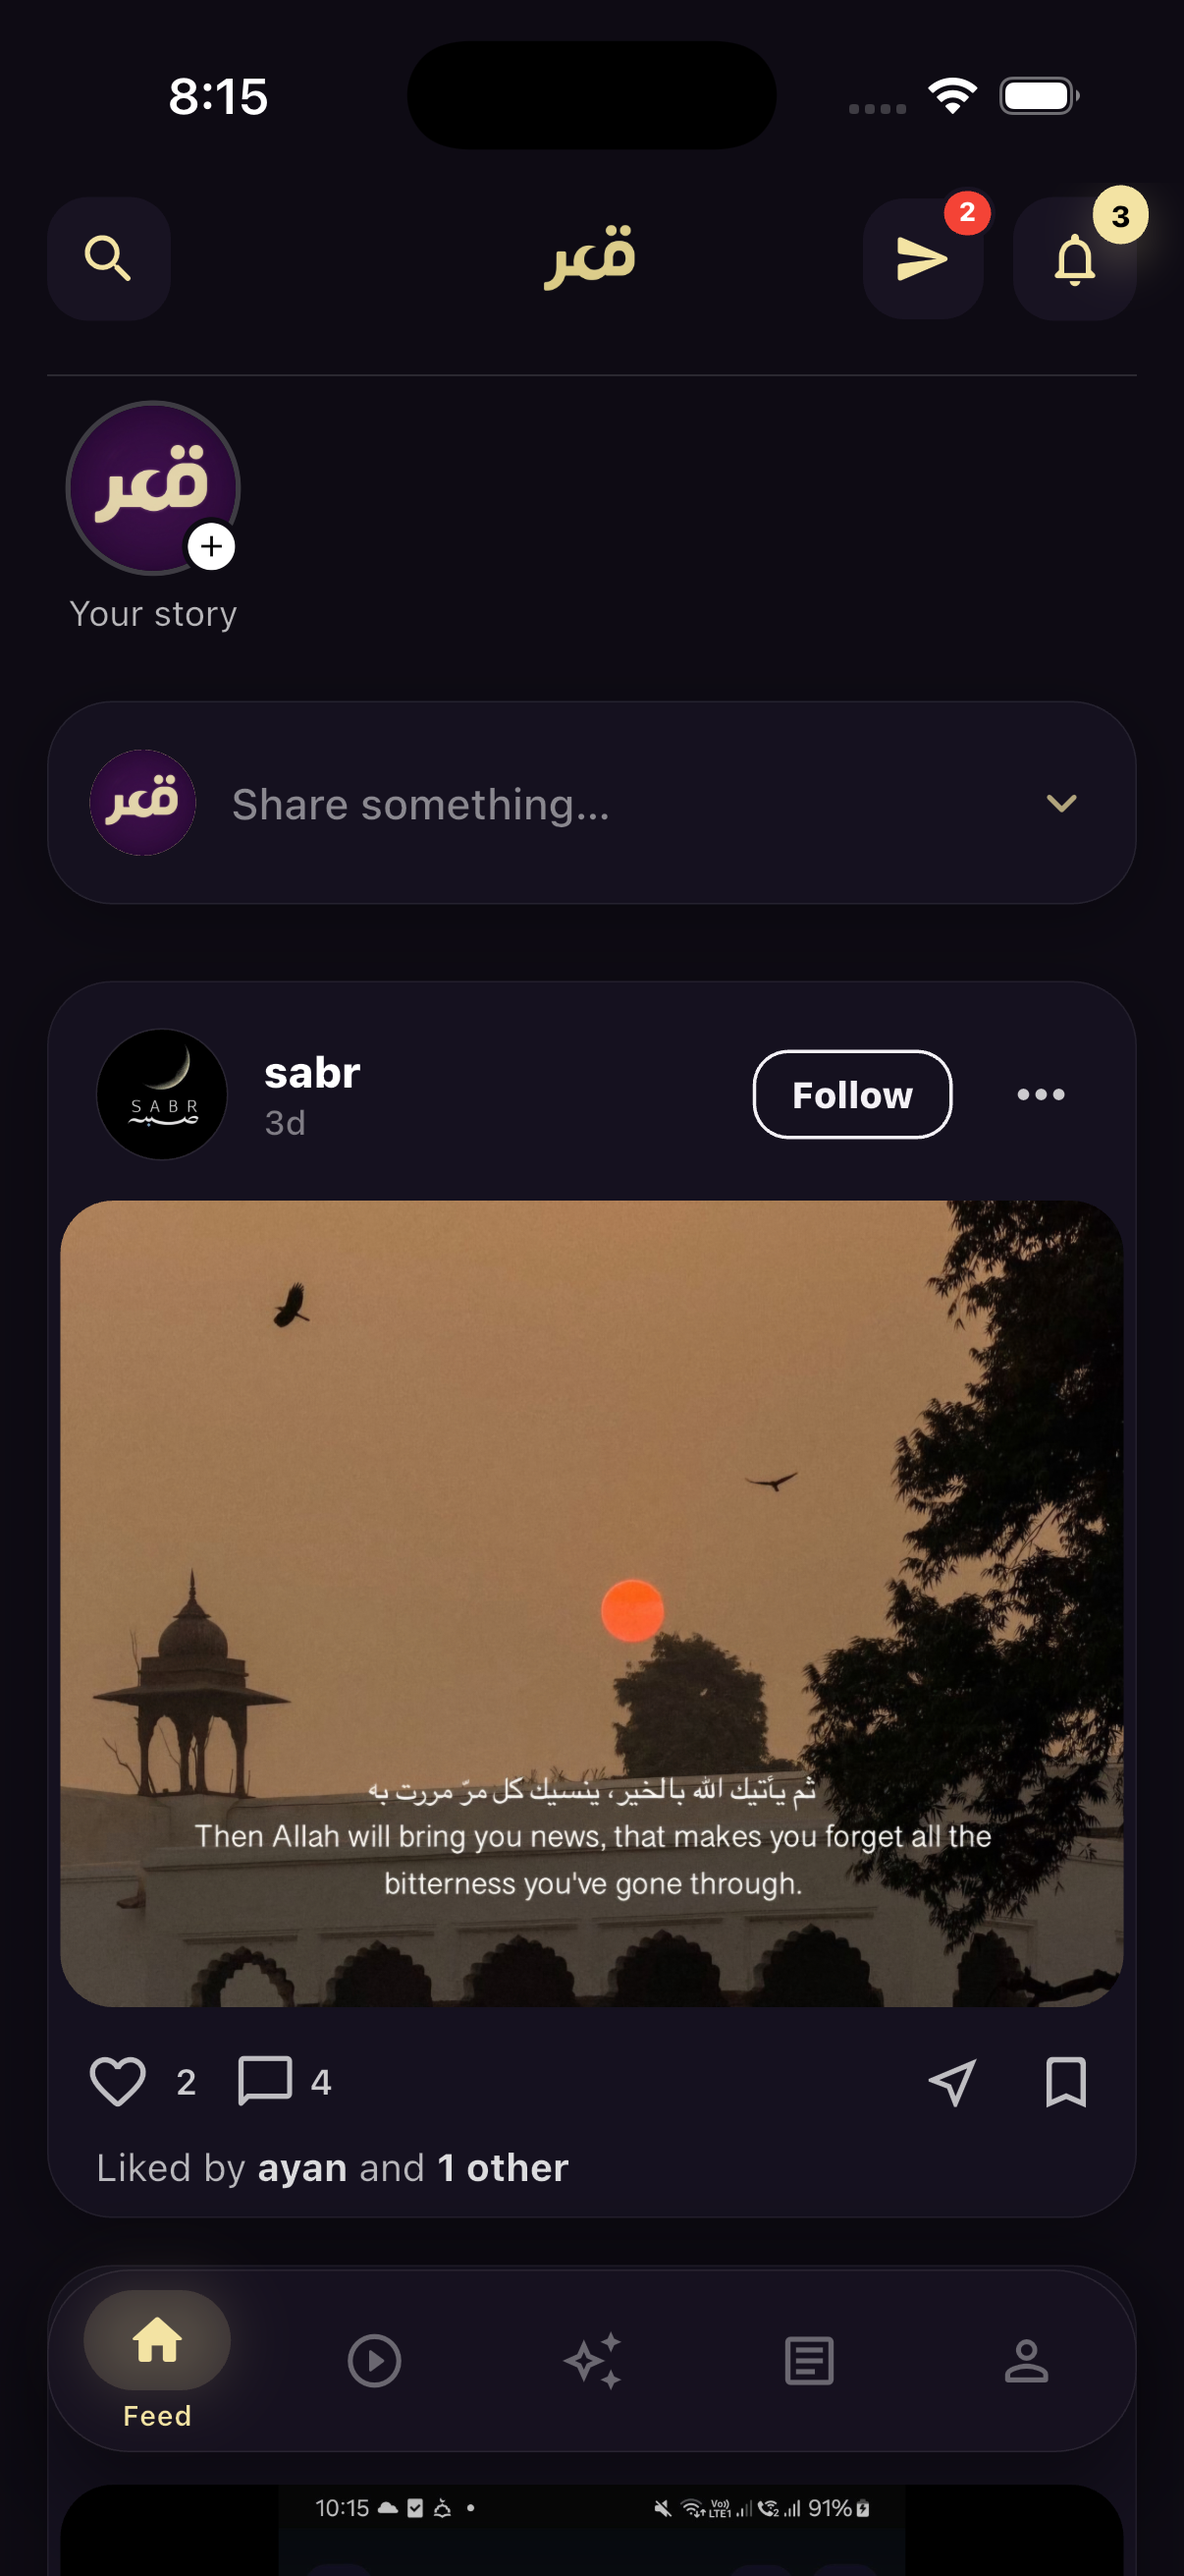
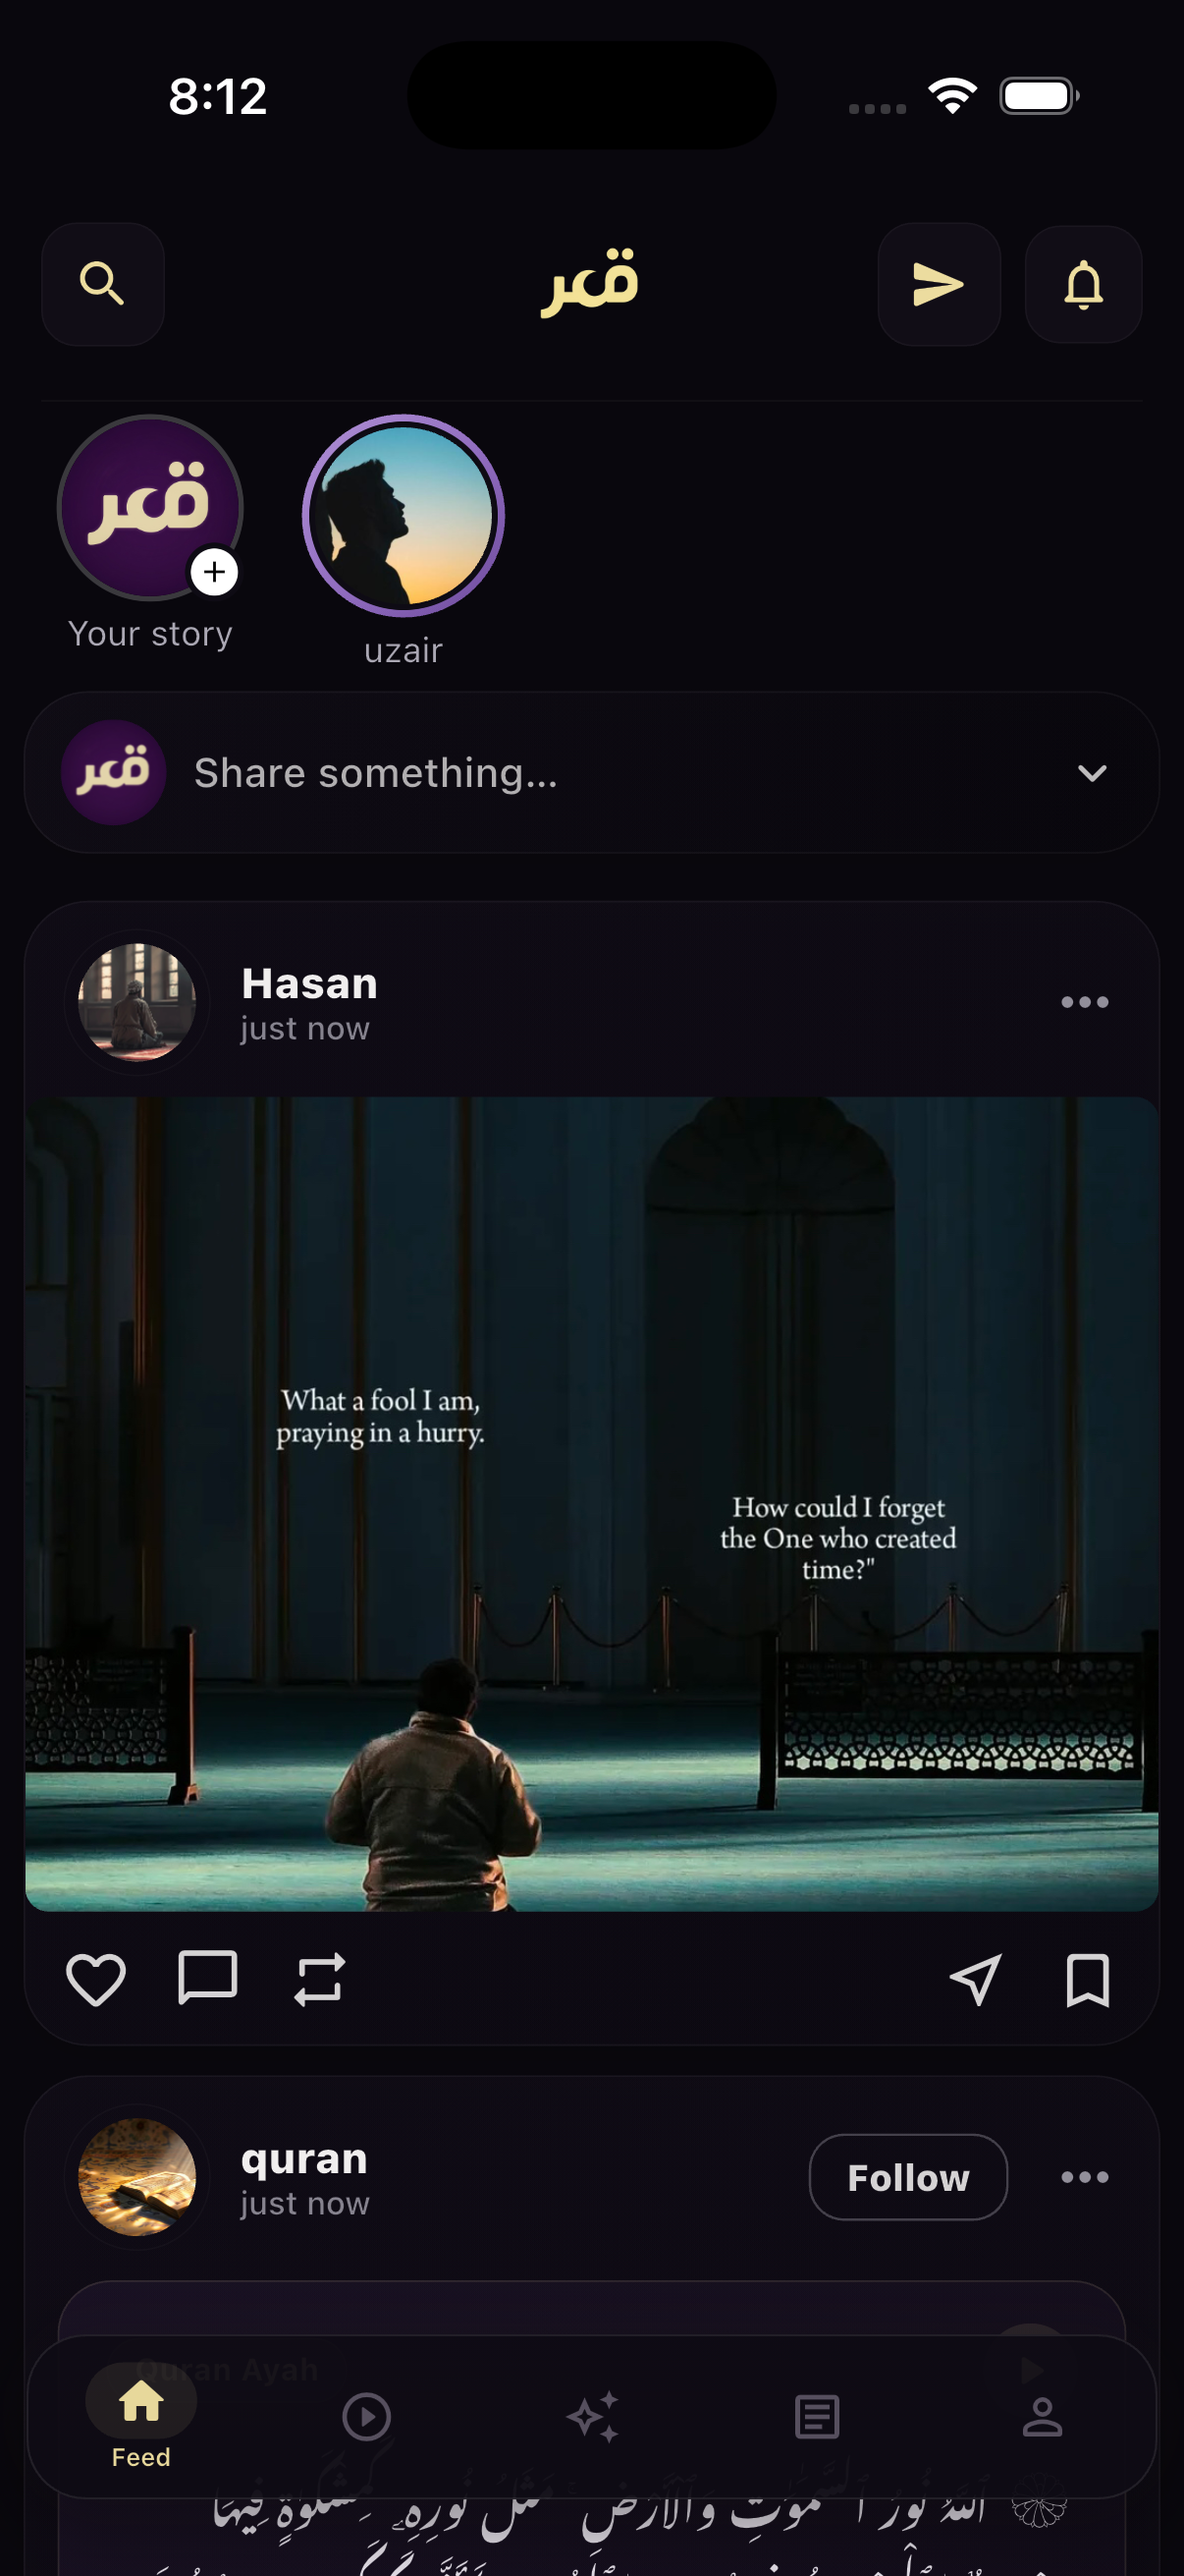
views

diff --git a/src/app/page.tsx b/src/app/page.tsx
@@ -1326,7 +1326,8 @@ img, svg, video { max-width: 100%; height: auto; }
       A Social App<br/><em>Built for Muslims.</em>
     </h1>
     <p class="hero-sub rv d2">
-      Scroll with purpose. Real people, meaningful content, Quran, Hadith, Duas, reels, discussions, and high-signal news — all in one place.
+      Scroll with purpose. 
+      Real people, meaningful content, Quran, Hadith, Duas, reels, discussions, and high-signal news — all in one place.
     </p>
     <div class="ctas rv d3">
       <a href="https://apps.apple.com/app/qamr/id6764144560" class="store-badge lg" aria-label="Download Qamr on the App Store — free" data-track="appstore_click" data-location="hero">
@@ -1619,7 +1620,7 @@ img, svg, video { max-width: 100%; height: auto; }
           <svg width="16" height="16" viewBox="0 0 24 24" fill="none" stroke="currentColor" stroke-width="1.8" stroke-linecap="round" stroke-linejoin="round"><circle cx="12" cy="12" r="10"/><path d="M8 12l3 3 5-5"/></svg>
         </div>
         <div class="tc-title">No AI-generated media.</div>
-        <div class="tc-desc">Images, videos, and posts created by AI are detected and filtered. What you see is made by humans.</div>
+        <div class="tc-desc">Videos created by AI are removed. What you see is made by humans.</div>
       </div>
     </div>
   </div>
